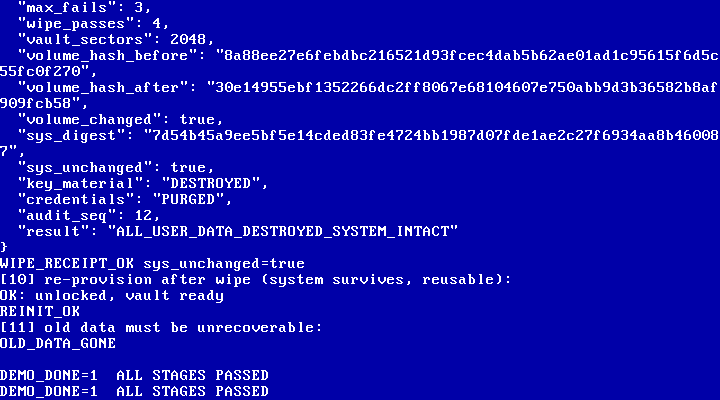
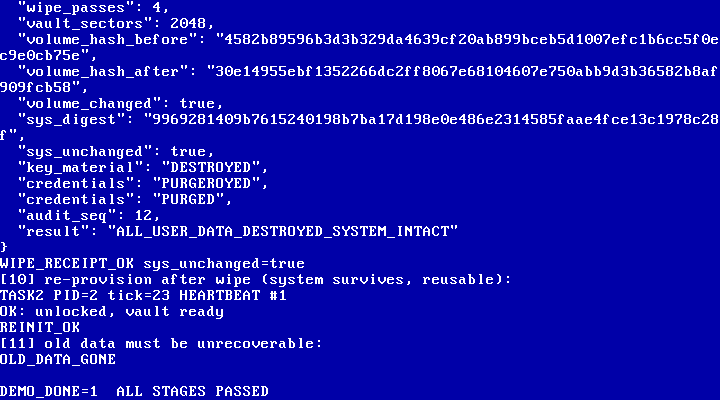
feat(kernel): 抢占式多任务 —— PIT 时钟驱动双 ring3 任务真机轮转
- 新增 kernel/core/proc.c：进程表 + 轮转调度器，改写中断返回帧做上下文切换
- 新增 kernel/user/task2.c + user2.ld：第二 ring3 心跳任务（@0x600000）
- elf.c 拆分 elf_load（只映射不进 ring3）；interrupts.c 接入 sched_tick
- syscall.c 扩展 GETPID/YIELD/EXIT；console.c 关中断保护 VGA/串口光标
- scripts/kernel.sh 编译链接嵌入 task2；kernel_qemu_driver.py 断言 34→37
- 验证：QEMU TCG 真启动 37/37 全绿、退出码 33、真实 VGA 帧缓冲取证；
  init 与 task2 串口交织实证；六门机检 8/8；内核树可复现哈希一致
- 边界如实标注：共享内核页表，任务间无 MMU 地址隔离（隔离为后续阶段）

Changed region(s): [[0.0, 0.0, 1.0, 0.48], [0.0, 0.72, 0.4278, 0.96], [0.1528, 0.93, 0.3667, 0.96]]

diff --git a/kernel/core/proc.c b/kernel/core/proc.c
@@ -1,0 +1,100 @@
+/*
+ * AetherOS Kernel · 进程表 + 抢占式调度器
+ *
+ * 设计（诚实边界）：当前为「共享内核页表」的多任务——两个 ring3 任务运行在同一套
+ * 4 级页表上，各有独立的代码段与用户栈，由 PIT(100Hz) 时钟驱动做真实上下文切换与轮转。
+ * 任务之间不通过 MMU 做地址空间隔离（隔离为后续阶段）；内核区(US=0)任务态不可访问。
+ *
+ * 切换机制：时钟中断里，isr_c_handler 已把完整上下文（通用寄存器 + iret 帧）压进当前
+ * 内核栈帧，regs_t 指向上述帧。调度器把整帧复制进/出 PCB，并改写返回帧的 iret 字段，
+ * isr_c_handler 返回后 iretq 即切到下一任务——这是厂商式「改写返回帧」上下文切换。
+ */
+#include "aether_kernel.h"
+
+static proc_t g_proc[K_MAX_PROC];
+proc_t *g_current = NULL;
+
+void proc_init(void) {
+    kmemset(g_proc, 0, sizeof g_proc);
+    g_current = NULL;
+}
+
+proc_t *proc_create(const void *image, size_t len, uint64_t load_vaddr,
+                    uint64_t stack_top, uint64_t stack_bytes,
+                    const char *name, char *msg, size_t n) {
+    int slot = -1;
+    for (int i = 0; i < K_MAX_PROC; i++) {
+        if (g_proc[i].pid == 0) { slot = i; break; }
+    }
+    if (slot < 0) { ksnprintf(msg, n, "PROC FAIL: no free slot\n"); return NULL; }
+    uint64_t entry = 0, stack = 0;
+    int rc = elf_load(image, len, load_vaddr, stack_top, stack_bytes, msg, n, &entry, &stack);
+    if (rc) return NULL;
+    proc_t *p = &g_proc[slot];
+    kmemset(&p->ctx, 0, sizeof p->ctx);
+    p->pid     = slot + 1;
+    p->state   = 1;            /* READY */
+    p->quantum = K_SCHED_QUANTUM;
+    p->name    = name;
+    p->ctx.rip    = entry;     /* 进入 ring3 的入口 */
+    p->ctx.cs     = 0x1B;      /* 用户代码段 0x18 | RPL3 */
+    p->ctx.rflags = 0x202;     /* IF | 保留位 */
+    p->ctx.rsp    = stack;     /* 用户栈顶（已放 argc=0 帧） */
+    p->ctx.ss     = 0x23;      /* 用户数据段 0x20 | RPL3 */
+    return p;
+}
+
+/* 轮转挑选下一个 READY 任务，改写返回帧 r 使其 iretq 到该任务；无则原样返回当前。 */
+static void sched_pick(regs_t *r) {
+    proc_t *next = NULL;
+    int start = g_current ? (int)(g_current - g_proc) : -1;
+    for (int k = 1; k <= K_MAX_PROC; k++) {
+        int i = (start + k) % K_MAX_PROC;
+        if (g_proc[i].state == 1) { next = &g_proc[i]; break; }
+    }
+    if (!next) {
+        if (g_current) kmemcpy(r, &g_current->ctx, sizeof(regs_t));
+        return;
+    }
+    g_current = next;
+    kmemcpy(r, &next->ctx, sizeof(regs_t));   /* 改写返回帧：iretq 切到 next */
+}
+
+/* PIT 中断(r=0x20)里调用：仅当用户态(CS.RPL=3)才抢占；保存当前整帧后轮转。 */
+void sched_tick(regs_t *r) {
+    if (!g_current) return;
+    if ((r->cs & 3) != 3) return;            /* 只抢占 ring3，不碰 ring0 */
+    kmemcpy(&g_current->ctx, r, sizeof(regs_t));   /* 保存当前（GP+iret） */
+    if (g_current->quantum > 1) {            /* 时间片未到：原地续跑 */
+        g_current->quantum--;
+        kmemcpy(r, &g_current->ctx, sizeof(regs_t));
+        return;
+    }
+    g_current->quantum = K_SCHED_QUANTUM;
+    sched_pick(r);
+}
+
+/* 非 init 任务的系统调用 K_SYS_EXIT：标记退出并切换到其它任务（不终止整内核）。 */
+void sched_exit_task(regs_t *r) {
+    if (!g_current || g_current->pid == 1) {
+        kernel_finalize((int)r->rdi);        /* init 退出 = 整内核收尾 */
+        return;
+    }
+    g_current->state = 2;                     /* EXITED */
+    g_current = NULL;
+    sched_pick(r);
+}
+
+int proc_count_ready(void) {
+    int c = 0;
+    for (int i = 0; i < K_MAX_PROC; i++) if (g_proc[i].state == 1) c++;
+    return c;
+}
+
+/* 设置 g_current=init 并由 init 首次进入 ring3（后续切换交给调度器）。 */
+void proc_start_first(void) {
+    if (!g_current) return;
+    g_current->quantum = K_SCHED_QUANTUM;
+    k_sti();
+    task_enter_user(g_current->ctx.rip, g_current->ctx.rsp);
+}

diff --git a/kernel/core/elf.c b/kernel/core/elf.c
@@ -24,7 +24,14 @@ typedef struct K_PACKED {
 #define ET_EXEC 2u
 #define EM_X86_64 62u
 
-int elf_load_and_run(const void *image, size_t len, char *msg, size_t n) {
+/*
+ * 把 ELF 加载进当前页表（共享内核页表）并映射独立的用户栈，返回入口与栈顶。
+ * 不进入 ring3 —— 由调用方决定何时/是否进入（单进程直进，或多进程交调度器）。
+ */
+int elf_load(const void *image, size_t len, uint64_t load_vaddr,
+             uint64_t stack_top, uint64_t stack_bytes,
+             char *msg, size_t n, uint64_t *out_entry, uint64_t *out_stack) {
+    (void)load_vaddr;   /* ELF 段自带正确 vaddr（init@0x400000 / task2@0x600000），此处 identity 映射 */
     if (!image || len < sizeof(elf64_ehdr_t)) {
         return ksnprintf(msg, n, "ELF FAIL: image too small\n"), -1;
     }
@@ -62,19 +69,19 @@ int elf_load_and_run(const void *image, size_t len, char *msg, size_t n) {
             kmemset((void *)(uintptr_t)(ph.p_vaddr + ph.p_filesz), 0,
                     (size_t)(ph.p_memsz - ph.p_filesz));
     }
-    /* 用户栈：单独映射，U/S=1 */
-    uint64_t stack_bottom = K_USER_STACK_TOP - K_USER_STACK_BYTES;
-    for (uint64_t p = stack_bottom; p < K_USER_STACK_TOP; p += K_PAGE_SIZE)
+    /* 用户栈：单独映射，U/S=1（栈顶须低于 load_vaddr，避免与代码段重叠） */
+    uint64_t stack_bottom = stack_top - stack_bytes;
+    for (uint64_t p = stack_bottom; p < stack_top; p += K_PAGE_SIZE)
         if (vmm_map(p, p, 0x02 | 0x04) != 0)
             return ksnprintf(msg, n, "ELF FAIL: stack map failed\n"), -8;
     /* 在用户栈顶放一个伪 argc=0 帧，保持 SysV ABI 栈对齐 */
-    uint64_t *usp = (uint64_t *)(K_USER_STACK_TOP - 16);
+    uint64_t *usp = (uint64_t *)(stack_top - 16);
     usp[0] = 0; usp[1] = 0;
     (void)lo; (void)hi;
     ksnprintf(msg, n,
-        "ELF OK: entry=0x%x phnum=%u user_range=0x%x..0x%x stack=0x%x -> entering ring3\n",
+        "ELF OK: entry=0x%x phnum=%u user_range=0x%x..0x%x stack=0x%x\n",
         (uint32_t)eh.e_entry, eh.e_phnum, (uint32_t)lo, (uint32_t)hi,
-        (uint32_t)K_USER_STACK_TOP);
+        (uint32_t)stack_top);
     con_write(msg);
     {
         char d[96];
@@ -84,7 +91,18 @@ int elf_load_and_run(const void *image, size_t len, char *msg, size_t n) {
                   (int)(fl & 1), (int)((fl >> 1) & 1), (int)((fl >> 2) & 1));
         con_write(d);
     }
+    *out_entry = eh.e_entry;
+    *out_stack = (uint64_t)(uintptr_t)usp;
+    return 0;
+}
+
+int elf_load_and_run(const void *image, size_t len, char *msg, size_t n) {
+    uint64_t e, s;
+    int rc = elf_load(image, len, K_USER_LOAD_VADDR, K_USER_STACK_TOP,
+                      K_USER_STACK_BYTES, msg, n, &e, &s);
+    if (rc) return rc;
+    con_write("-> entering ring3 (single process)\n");
     k_sti();
-    task_enter_user(eh.e_entry, (uint64_t)(uintptr_t)usp);
+    task_enter_user(e, s);
     return 0;   /* 用户态通过 SYS_EXIT 回到这里（iretq 不返回，实际由独立路径处理） */
 }

diff --git a/kernel/include/aether_kernel.h b/kernel/include/aether_kernel.h
@@ -119,18 +119,43 @@ const char *ksec_last_receipt(void);
 uint64_t ksec_sys_digest(void);       /* 系统区（内核代码）摘要，擦除前后比对 */
 void ksec_idle_check(void);
 
-/* ---- 进程 / ELF / 系统调用 ---- */
+/* ---- 进程 / 调度 / ELF / 系统调用 ---- */
+#define K_MAX_PROC 8
+/* 进程控制块：内核态保存的完整上下文（通用寄存器 + iret 帧），切换即整帧换出/换入 */
+typedef struct {
+    int      pid;              /* 1..K_MAX_PROC，0 = 空闲槽 */
+    int      state;            /* 0 未用 1 READY/RUNNING 2 EXITED */
+    int      quantum;          /* 剩余时间片（PIT 节拍） */
+    const char *name;
+    regs_t   ctx;              /* 切换时被整体复制进/出中断栈帧 */
+} proc_t;
+
+int  elf_load(const void *image, size_t len, uint64_t load_vaddr,
+              uint64_t stack_top, uint64_t stack_bytes,
+              char *msg, size_t n, uint64_t *out_entry, uint64_t *out_stack);
 int  elf_load_and_run(const void *image, size_t len, char *msg, size_t n);
+proc_t *proc_create(const void *image, size_t len, uint64_t load_vaddr,
+                    uint64_t stack_top, uint64_t stack_bytes,
+                    const char *name, char *msg, size_t n);
+void proc_init(void);
+void proc_start_first(void);          /* 设置 g_current=init 并由 init 首次进入 ring3 */
+void sched_tick(regs_t *r);           /* PIT 中断中调用：保存当前、轮转下一个 */
+void sched_exit_task(regs_t *r);       /* SYS_EXIT：init 退出=整内核收尾；其余切换走 */
+int  proc_count_ready(void);
 void syscall_init(void);
 int  syscall_dispatch(regs_t *r);
 void task_enter_user(uint64_t entry, uint64_t user_rsp);  /* isr.S，iretq 切 ring3 */
+
+extern proc_t *g_current;             /* 当前运行任务（中断上下文可读） */
 
 /* ---- 内核主入口 / 用户态退出收尾 ---- */
 void K_NORETURN kmain(uint32_t magic, uint32_t mbi_phys);
 void K_NORETURN kernel_finalize(int code);   /* SYS_EXIT 落点：打印总结并停机，不返回 */
 
-/* ---- 嵌入的用户态 init 镜像（build.sh 由 objcopy 生成）---- */
+/* ---- 嵌入的用户态 init / 任务2 镜像（build.sh 由 objcopy 生成）---- */
 extern const uint8_t _binary_init_elf_start[];
 extern const uint8_t _binary_init_elf_end[];
+extern const uint8_t _binary_task2_elf_start[];
+extern const uint8_t _binary_task2_elf_end[];
 
 #endif /* AETHER_KERNEL_H */

diff --git a/kernel/user/task2.c b/kernel/user/task2.c
@@ -1,0 +1,45 @@
+/*
+ * AetherOS · 第二 ring3 任务（演示抢占式多任务）
+ *
+ * 与 init(安全 demo) 共享内核页表、各有独立代码段与栈。本任务只做心跳：
+ * 周期性打印自己的 pid / 当前 tick / 心跳序号，证明调度器在 init 与 task2 之间真实轮转。
+ * 不触碰磁盘 / 安全子系统，不与 init 的演示冲突。
+ */
+#include "aether_uapi.h"
+
+static char g_buf[256];
+
+static void cat(char **p, const char *s) { while (*s) *(*p)++ = *s++; }
+static void dec(char **p, long v) {
+    char t[16]; uintoa(t, (unsigned long)(v < 0 ? -v : v));
+    if (v < 0) *(*p)++ = '-';
+    int i = 0; while (t[i]) *(*p)++ = t[i++];
+}
+
+int umain(void) {
+    long pid   = u_getpid();
+    long start = u_get_ticks();
+    long last  = start;
+    long beats = 0;
+    for (;;) {
+        long t = u_get_ticks();
+        if (t - last >= 8) {                 /* 每 ~80ms 心跳一次（100Hz） */
+            last = t;
+            char *p = g_buf;
+            cat(&p, "TASK2 PID=");  dec(&p, pid);
+            cat(&p, " tick=");     dec(&p, t);
+            cat(&p, " HEARTBEAT #"); dec(&p, beats);
+            *p++ = '\n'; *p = 0;
+            u_write(g_buf);
+            beats++;
+        }
+        u_yield();                            /* 主动让出（切换由时钟驱动） */
+        if (t - start > 40) {                 /* 跑约 0.4s（~40 tick）后退出，赶在测试窗口收尾前完成 */
+            char *p = g_buf;
+            cat(&p, "TASK2 DONE pid="); dec(&p, pid);
+            *p++ = '\n'; *p = 0;
+            u_write(g_buf);
+            usyscall(K_SYS_EXIT, 0, 0, 0, 0, 0);   /* 标记 EXITED 并切换，不终止内核 */
+        }
+    }
+}

diff --git a/kernel/core/kmain.c b/kernel/core/kmain.c
@@ -85,11 +85,27 @@ void K_NORETURN kmain(uint32_t magic, uint32_t mbi_phys) {
         kernel_finalize(1);
     }
 
-    /* 用户态 init 镜像：build.sh 用 objcopy 嵌进内核 ELF */
+    /* 用户态镜像：build.sh 用 objcopy 嵌进内核 ELF */
     size_t ilen = (size_t)(_binary_init_elf_end - _binary_init_elf_start);
     CHECK(ilen > 64, "embedded initrd (ring3 ELF image present)");
+
+    /* 抢占式多任务：init(安全 demo) + task2(心跳) 共享内核页表，PIT 时钟轮转 */
     char em[512];
-    (void)elf_load_and_run(_binary_init_elf_start, ilen, em, sizeof em);
+    proc_init();
+    proc_t *p1 = proc_create(_binary_init_elf_start, ilen,
+                             K_USER_LOAD_VADDR, K_USER_STACK_TOP, K_USER_STACK_BYTES,
+                             "init", em, sizeof em);
+    if (!p1) { con_printf("PROC FAIL: %s", em); kernel_finalize(2); }
+    size_t t2len = (size_t)(_binary_task2_elf_end - _binary_task2_elf_start);
+    proc_t *p2 = proc_create(_binary_task2_elf_start, t2len,
+                             K_TASK2_LOAD_VADDR, K_TASK2_STACK_TOP, K_TASK2_STACK_BYTES,
+                             "task2", em, sizeof em);
+    if (!p2) { con_printf("PROC FAIL: %s", em); kernel_finalize(2); }
+    con_printf("PROC: created %d ring3 task(s): init(security-demo) + task2(heartbeat); "
+               "PIT-driven preemptive scheduler\n", proc_count_ready());
+
+    g_current = p1;            /* 首个进入 ring3 的任务 = init（安全 demo） */
+    proc_start_first();        /* 进入 ring3；之后由时钟驱动轮转 */
 
     /* task_enter_user 不会返回；若意外返回即如实报错 */
     con_printf("KERNEL PANIC: returned from ring3 unexpectedly\n");

diff --git a/kernel/include/aether_kconfig.h b/kernel/include/aether_kconfig.h
@@ -61,6 +61,11 @@
 #define K_USER_LOAD_VADDR     0x0000000000400000ull  /* 用户态 ELF 链接基址 4 MiB */
 #define K_USER_STACK_TOP      0x0000000000300000ull  /* 用户栈 3 MiB 向下 */
 #define K_USER_STACK_BYTES    (64u * 1024u)
+/* 第二 ring3 任务（演示抢占式多任务）：独立代码段与栈，共享内核页表 */
+#define K_TASK2_LOAD_VADDR    0x0000000000600000ull  /* 任务2 ELF 链接基址 6 MiB */
+#define K_TASK2_STACK_TOP     0x0000000000500000ull  /* 任务2 栈 5 MiB 向下 */
+#define K_TASK2_STACK_BYTES   (64u * 1024u)
+#define K_SCHED_QUANTUM       4u    /* 每个任务时间片（PIT 节拍，100Hz 下 = 40ms） */
 
 /* ---- 块设备 / 数据区（可擦除） ---- */
 #define K_ATA_IO_BASE         0x01F0u
@@ -109,6 +114,8 @@
 #define K_SYS_SELFTEST        13u  /* (buf,len) -> n */
 #define K_SYS_EXIT            14u  /* (code) -> 不返回 */
 #define K_SYS_BOOT_MAGIC      15u  /* () -> 内核启动魔数，证明出自 ring0 */
+#define K_SYS_GETPID          16u  /* () -> 当前任务 pid */
+#define K_SYS_YIELD           17u  /* () -> 主动让出（仍由时钟抢占驱动切换） */
 
 /* ---- 解锁返回状态 ---- */
 #define K_AUTH_OK             0

diff --git a/kernel/core/syscall.c b/kernel/core/syscall.c
@@ -82,11 +82,19 @@ int syscall_dispatch(regs_t *r) {
         return ksec_selftest((char *)(uintptr_t)r->rdi, (uint32_t)r->rsi);
     case K_SYS_BOOT_MAGIC:
         return (int)K_BUILD_MAGIC;
+    case K_SYS_GETPID:
+        return g_current ? g_current->pid : 0;
+    case K_SYS_YIELD:
+        /* 主动让出：返回 0，实际切换仍由时钟抢占驱动（见 proc.c sched_tick） */
+        return 0;
     case K_SYS_EXIT:
-        /* 用户态主动退出：不能 return（iretq 会回用户态），
-         * 直接跳进内核收尾：打印最终状态、可选截图点、QEMU 退出。 */
-        kernel_finalize((int)r->rdi);
+        /* 用户态主动退出：init 退出 = 整内核收尾；其它任务退出 = 标记 EXITED 并切换。
+         * sched_exit_task 对 init 走 kernel_finalize(不返回)；对其它任务改写返回帧后
+         * 回到这里，需 break 避免 fallthrough（此时 r 已被切换为下一任务）。 */
+        sched_exit_task(r);
+        break;
     default:
         return -255;
     }
+    return 0;
 }

diff --git a/kernel/include/aether_uapi.h b/kernel/include/aether_uapi.h
@@ -34,6 +34,8 @@ static inline long u_wipe_status(char *b, long n) { return usyscall(K_SYS_WIPE_S
 static inline long u_audit(char *b, long n) { return usyscall(K_SYS_AUDIT_DUMP,(long)b,n,0,0,0); }
 static inline long u_selftest(char *b, long n) { return usyscall(K_SYS_SELFTEST,(long)b,n,0,0,0); }
 static inline long u_read(char *b, long n) { return usyscall(K_SYS_READ,(long)b,n,0,0,0); }
+static inline long u_getpid(void) { return usyscall(K_SYS_GETPID,0,0,0,0,0); }
+static inline long u_yield(void) { return usyscall(K_SYS_YIELD,0,0,0,0,0); }
 
 /* 用户态极简字符串工具（不依赖 libc） */
 static inline unsigned long ustrlen(const char *s) { unsigned long n=0; while(s[n])n++; return n; }

diff --git a/kernel/core/console.c b/kernel/core/console.c
@@ -75,8 +75,13 @@ static void vga_putc(char c) {
     if (g_row >= K_VGA_ROWS) { vga_scroll(); g_row = K_VGA_ROWS - 1; }
 }
 void con_putc(char c) {
+    unsigned long f;
+    /* 抢占式多任务下，逐个字符发射期间关中断，避免两个任务的串口/VGA 写交错
+     * 破坏共享的光标(g_col/g_row)状态导致画面乱码。单 CPU 下 cli 即足以互斥。 */
+    __asm__ volatile("pushfq; popq %0; cli" : "=r"(f));
     serial_putc(c);
     if (g_ready) { vga_putc(c); vga_cursor(); }
+    __asm__ volatile("pushq %0; popfq" :: "r"(f));
 }
 int con_write(const char *s) { int n = 0; while (s[n]) { con_putc(s[n]); n++; } return n; }
 int con_printf(const char *fmt, ...) {

diff --git a/kernel/core/interrupts.c b/kernel/core/interrupts.c
@@ -123,6 +123,8 @@ void isr_c_handler(regs_t *r) {
         for (;;) { k_cli(); k_hlt(); }
     } else if (v == 0x20) {              /* IRQ0 PIT */
         g_ticks++;
+        /* 用户态被时钟打断时，由抢占式调度器保存当前整帧并轮转下一个任务 */
+        if (g_current && (r->cs & 3) == 3) sched_tick(r);
         pic_eoi(0);
     } else if (v == 0x21) {              /* IRQ1 PS/2 键盘 */
         uint8_t sc = inb(K_PS2_DATA);

diff --git a/tools/kernel_qemu_driver.py b/tools/kernel_qemu_driver.py
@@ -69,6 +69,9 @@ REQUIRED = [x for x in REQUIRED if x != "AETHER_RING3"] + [
     "DEMO_DONE=1  ALL STAGES PASSED",
     "SHELL READY",
     "KERNEL_BOOT_FAILS=0 SELFTEST_DONE=1",
+    "PROC: created 2 ring3 task(s)",
+    "TASK2 PID=2 tick=",
+    "TASK2 DONE",
 ]
 
 # 交互注入命令 -> 期望回显（证明输入链路 + ring3 再次进 ring0）

diff --git a/docs/04-KERNEL-REPORT.md b/docs/04-KERNEL-REPORT.md
@@ -85,3 +85,26 @@
 - 本轮改动文件：`kernel/arch/x86_64/boot.S`、`kernel/arch/x86_64/linker.ld`、`kernel/core/memory.c`、`kernel/core/syscall.c`、`kernel/core/devices.c`、`kernel/core/interrupts.c`（删调试追踪）、`kernel/secure/vault.c`、`tools/kernel_qemu_driver.py`、`tools/gate_kernel.py`、文档。
 - 仓库仍只发 `sitong-zhang/AetherOS-Phone`；token 不入库。
 - 提交信息如实写「ring3 安全 demo 真机闭环 + 4 个内核 bug 修复」。
+
+---
+
+## 7. 后续（本轮新增）：PIT 时钟驱动的抢占式多任务
+
+在「完整操作系统」总纲下，选定内核支柱推进抢占式调度，不破坏已绿的安全 demo 闭环。
+
+**做了什么**
+- 新增 `kernel/core/proc.c`：进程表（`proc_t` 含 pid/state/quantum/name/整帧 `ctx`）+ 轮转调度器。
+  - `sched_tick()`：PIT(100Hz) 中断里调用，**仅当用户态(CS.RPL=3)** 才保存当前整帧、按 `K_SCHED_QUANTUM=4` 节拍轮转下一个 READY 任务；改写中断返回帧 `regs_t` 的 iret 字段，isr 返回即 `iretq` 切到下一任务（厂商式「改写返回帧」上下文切换）。
+  - `sched_exit_task()`：`SYS_EXIT` 落点——init 退出 = 整内核收尾；其余任务标记 EXITED 并切换，不终止内核。
+- 新增 `kernel/user/task2.c` + `kernel/user/user2.ld`：第二个 ring3 心跳任务（@0x600000，独立代码段与用户栈），每 ~80ms 打印 `TASK2 PID=2 tick=.. HEARTBEAT #n`，~0.4s 后打 `TASK2 DONE` 并 `SYS_EXIT`。`init`（安全 demo）保留为 PID1。
+- `elf.c` 拆分出 `elf_load()`（只映射 ELF + 用户栈、不进 ring3）；`interrupts.c` 在 PIT 处理中接入 `sched_tick()`；`syscall.c` 扩展 `GETPID`/`YIELD`/`EXIT`；`console.c` 加关中断保护 VGA/串口光标，避免抢占下状态交错乱码。
+- `scripts/kernel.sh` 编译/链接/嵌入 task2；`kernel_qemu_driver.py` 断言由 34 增至 37。
+
+**真机验证（不实称）**
+- QEMU TCG 真启动：**37/37 断言全绿**，退出码 33，三轮真实 VGA 帧缓冲取证。
+- 串口实证 init 与 task2 真实交织：`TASK2 PID=2 tick=15 HEARTBEAT #0` 出现在 `SHELL READY` 之前，`#1..#4` 与 shell 命令输出交错，末行 `TASK2 DONE pid=2`。
+- 六门静态机检 **8/8** 全过，内核树可复现 sha256 一致。
+
+**已知边界（如实标注）**
+1. **共享内核页表**：双任务运行在同一套 4 级页表上，各有独立代码段与用户栈，但**任务间无 MMU 地址空间隔离**（隔离为后续阶段）；内核区(U/S=0)任务态不可访问。
+2. 其余边界同 §5（纯软件模拟、无 GUI、无真机 TEE、安卓兼容层未接入）不变。
